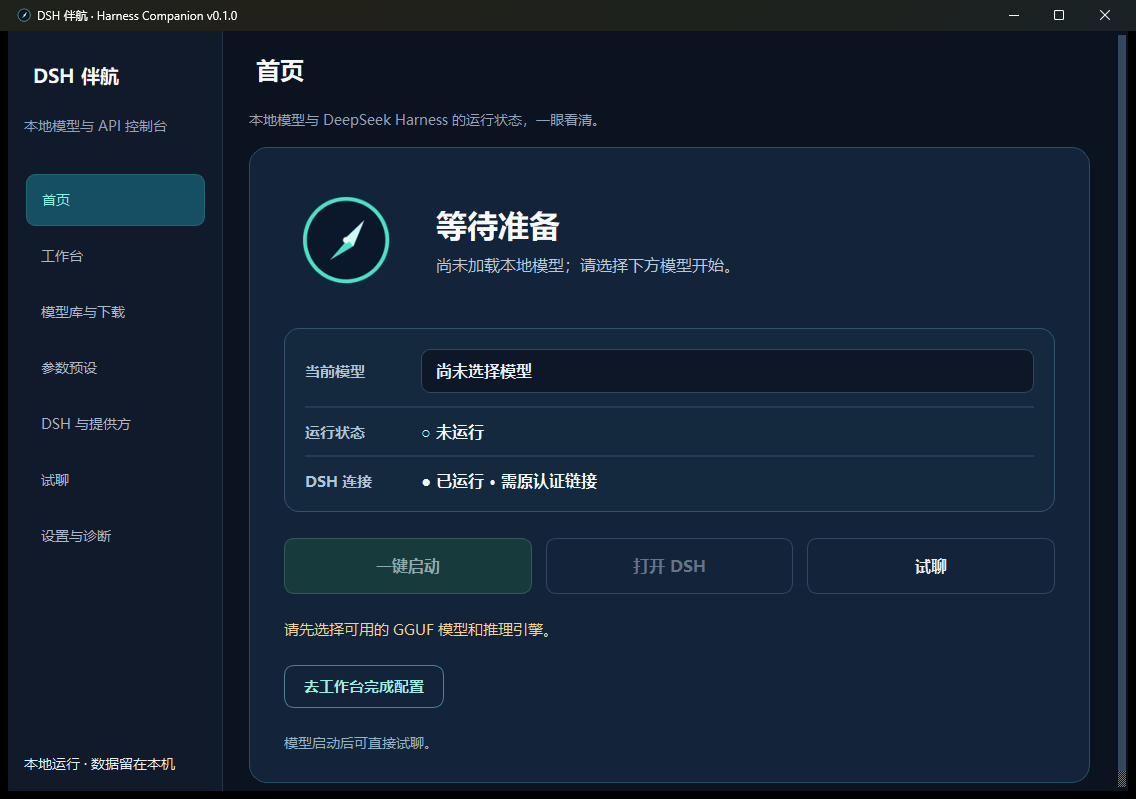
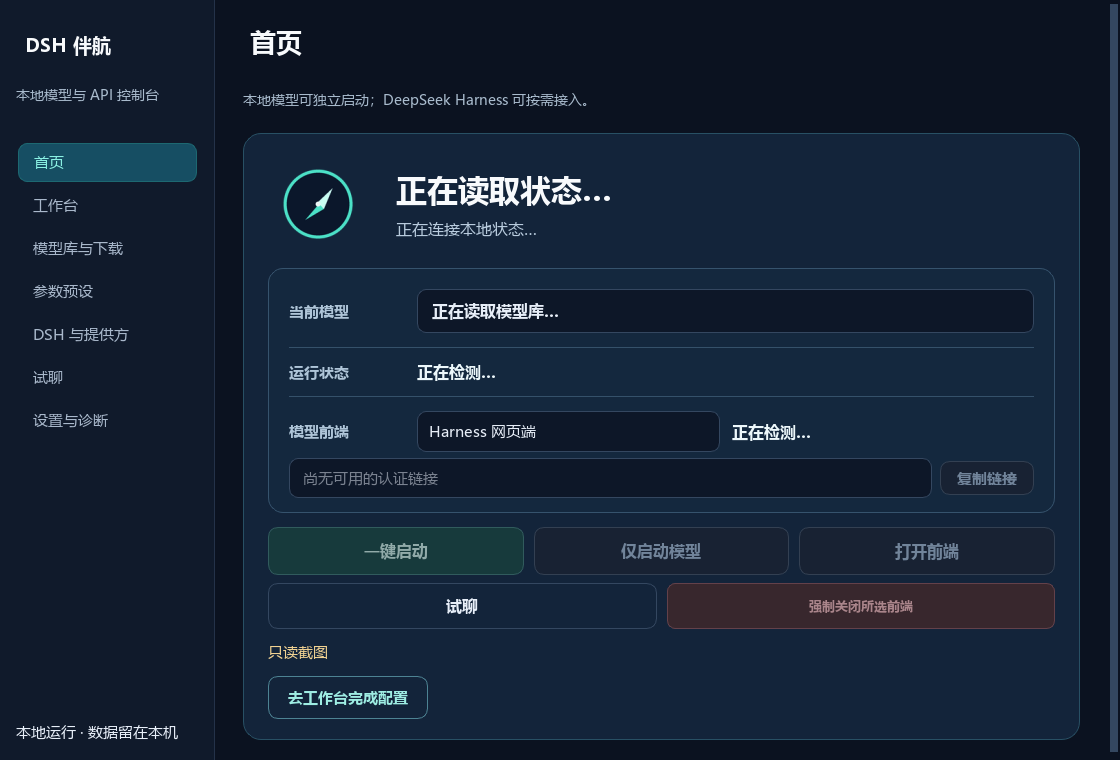
Finalize v0.2.0 source and compact preview

diff --git a/manager/main.py b/manager/main.py
@@ -1137,14 +1137,13 @@ class MainWindow(QMainWindow):
         self._title(layout, "\u9996\u9875", "\u672c\u5730\u6a21\u578b\u53ef\u72ec\u7acb\u542f\u52a8\uff1bDeepSeek Harness \u53ef\u6309\u9700\u63a5\u5165\u3002")
         hero, hero_layout = card()
         hero.setObjectName("heroCard")
-        hero.setMinimumHeight(560)
-        hero_layout.setContentsMargins(34, 30, 34, 30)
-        hero_layout.setSpacing(26)
+        hero_layout.setContentsMargins(24, 20, 24, 20)
+        hero_layout.setSpacing(14)
         hero_top = QHBoxLayout()
         hero_top.setSpacing(28)
         compass = QLabel()
-        compass.setPixmap(app_icon().pixmap(110, 110))
-        compass.setFixedSize(124, 124)
+        compass.setPixmap(app_icon().pixmap(88, 88))
+        compass.setFixedSize(100, 100)
         compass.setAlignment(Qt.AlignmentFlag.AlignCenter)
         hero_top.addWidget(compass)
         status_column = QVBoxLayout()
@@ -1167,6 +1166,7 @@ class MainWindow(QMainWindow):
         summary_layout.setContentsMargins(20, 14, 20, 14)
         summary_layout.setSpacing(0)
         model_row = QHBoxLayout()
+        model_row.setSpacing(12)
         model_row.setContentsMargins(0, 6, 0, 13)
         model_title = QLabel("当前模型")
         model_title.setObjectName("homeRowLabel")
@@ -1184,6 +1184,7 @@ class MainWindow(QMainWindow):
         divider1.setObjectName("homeDivider")
         summary_layout.addWidget(divider1)
         running_row = QHBoxLayout()
+        running_row.setSpacing(12)
         running_row.setContentsMargins(0, 13, 0, 13)
         running_title = QLabel("运行状态")
         running_title.setObjectName("homeRowLabel")
@@ -1198,6 +1199,7 @@ class MainWindow(QMainWindow):
         divider2.setObjectName("homeDivider")
         summary_layout.addWidget(divider2)
         dsh_row = QHBoxLayout()
+        dsh_row.setSpacing(12)
         dsh_row.setContentsMargins(0, 13, 0, 6)
         dsh_title = QLabel("\u6a21\u578b\u524d\u7aef")
         dsh_title.setObjectName("homeRowLabel")
@@ -1208,7 +1210,7 @@ class MainWindow(QMainWindow):
         self.frontend_combo.addItem("Harness \u684c\u9762\u7aef", "dsh_desktop")
         self.frontend_combo.addItem("Pi WebUI", "pi")
         self.frontend_combo.currentIndexChanged.connect(self._update_frontend_link)
-        dsh_row.addWidget(self.frontend_combo)
+        dsh_row.addWidget(self.frontend_combo, 1)
         self.quick_dsh_state = QLabel("\u6b63\u5728\u68c0\u6d4b\u2026")
         self.quick_dsh_state.setObjectName("homeRowValue")
         dsh_row.addWidget(self.quick_dsh_state, 1)
@@ -1216,22 +1218,38 @@ class MainWindow(QMainWindow):
         self.frontend_link_edit = QLineEdit()
         self.frontend_link_edit.setReadOnly(True)
         self.frontend_link_edit.setPlaceholderText("\u6240\u9009\u524d\u7aef\u7684\u53ef\u7528\u94fe\u63a5")
-        summary_layout.addWidget(self.frontend_link_edit)
+        frontend_link_row = QHBoxLayout()
+        frontend_link_row.setSpacing(8)
+        frontend_link_row.addWidget(self.frontend_link_edit, 1)
+        self.frontend_copy_btn = button("\u590d\u5236\u94fe\u63a5", self.copy_selected_frontend_link)
+        self.frontend_copy_btn.setFixedHeight(34)
+        frontend_link_row.addWidget(self.frontend_copy_btn)
+        summary_layout.addLayout(frontend_link_row)
         hero_layout.addWidget(summary)
 
-        actions = QHBoxLayout()
-        actions.setSpacing(14)
+        actions = QVBoxLayout()
+        actions.setSpacing(8)
+        actions_top = QHBoxLayout()
+        actions_top.setSpacing(10)
+        actions_bottom = QHBoxLayout()
+        actions_bottom.setSpacing(10)
         self.start_btn = button("\u4e00\u952e\u542f\u52a8", self.start_model_and_frontend, "primaryButton")
         self.start_btn.setToolTip("\u542f\u52a8\u6216\u590d\u7528\u6240\u9009\u672c\u5730\u6a21\u578b\uff0c\u7b49\u5f85 API \u5c31\u7eea\u540e\u6253\u5f00\u6240\u9009\u524d\u7aef\u3002")
+        self.home_model_only_start_btn = button("\u4ec5\u542f\u52a8\u6a21\u578b", self.start_model)
         self.stop_btn = button("\u505c\u6b62\u672c\u5730\u6a21\u578b", self.stop_model)
         self.dsh_open_btn = button("\u6253\u5f00\u524d\u7aef", self.open_selected_frontend)
-        self.frontend_copy_btn = button("\u590d\u5236\u94fe\u63a5", self.copy_selected_frontend_link)
         self.frontend_force_btn = button("\u5f3a\u5236\u5173\u95ed\u6240\u9009\u524d\u7aef", self.force_close_selected_frontend, "dangerButton")
         self.chat_nav_btn = button("\u8bd5\u804a", lambda: self.nav.setCurrentRow(5))
-        for widget in (self.start_btn, self.stop_btn, self.dsh_open_btn, self.frontend_copy_btn, self.frontend_force_btn, self.chat_nav_btn):
+        for widget in (self.start_btn, self.home_model_only_start_btn, self.dsh_open_btn):
             widget.setProperty("homeAction", True)
-            widget.setMinimumHeight(56)
-            actions.addWidget(widget, 1)
+            widget.setMinimumHeight(46)
+            actions_top.addWidget(widget, 1)
+        for widget in (self.stop_btn, self.chat_nav_btn, self.frontend_force_btn):
+            widget.setProperty("homeAction", True)
+            widget.setMinimumHeight(46)
+            actions_bottom.addWidget(widget, 1)
+        actions.addLayout(actions_top)
+        actions.addLayout(actions_bottom)
         hero_layout.addLayout(actions)
         self.prep_hint = QLabel("正在检查所需组件…")
         self.prep_hint.setObjectName("homeHint")
@@ -1240,22 +1258,24 @@ class MainWindow(QMainWindow):
         self.complete_setup_btn = button("去工作台完成配置", self.toggle_advanced_controls)
         self.complete_setup_btn.setObjectName("homeSetupButton")
         hero_layout.addWidget(self.complete_setup_btn, 0, Qt.AlignmentFlag.AlignLeft)
-        self.note_label = QLabel("模型启动后可直接试聊。")
-        self.note_label.setObjectName("homeNote")
-        self.note_label.setWordWrap(True)
-        hero_layout.addWidget(self.note_label)
         layout.addWidget(hero)
         apps_card, apps_layout = card("\u53ef\u9009\u5e94\u7528")
-        apps_layout.addWidget(QLabel("Pi WebUI \u6765\u81ea xing-shuyin/pi-web-ui \u793e\u533a\u9879\u76ee\uff1b\u672c\u5730 API \u9700\u5728 WebUI \u4e2d\u624b\u52a8\u914d\u7f6e\u6216\u901a\u8fc7\u4e00\u952e\u542f\u52a8\u540c\u6b65\u3002Harness Desktop \u6765\u81ea DeepSeek \u5b98\u65b9\u53d1\u5e03\u6e20\u9053\uff1b\u5176\u63d0\u4f9b\u65b9\u4e0e\u672c\u5730 API \u9700\u5728\u684c\u9762\u7aef\u5185\u624b\u52a8\u914d\u7f6e\uff0c\u4f34\u822a\u4e0d\u6539\u5199\u5176\u914d\u7f6e\u3002\u9000\u51fa\u4f34\u822a\u4e0d\u4f1a\u5173\u95ed\u4efb\u4f55\u524d\u7aef\u3002"))
+        apps_description = QLabel("Pi WebUI \u6765\u81ea xing-shuyin/pi-web-ui \u793e\u533a\u9879\u76ee\uff1b\u672c\u5730 API \u9700\u5728 WebUI \u4e2d\u624b\u52a8\u914d\u7f6e\u6216\u901a\u8fc7\u4e00\u952e\u542f\u52a8\u540c\u6b65\u3002Harness Desktop \u6765\u81ea DeepSeek \u5b98\u65b9\u53d1\u5e03\u6e20\u9053\uff1b\u5176\u63d0\u4f9b\u65b9\u4e0e\u672c\u5730 API \u9700\u5728\u684c\u9762\u7aef\u5185\u624b\u52a8\u914d\u7f6e\uff0c\u4f34\u822a\u4e0d\u6539\u5199\u5176\u914d\u7f6e\u3002\u9000\u51fa\u4f34\u822a\u4e0d\u4f1a\u5173\u95ed\u4efb\u4f55\u524d\u7aef\u3002")
+        apps_description.setWordWrap(True)
+        apps_layout.addWidget(apps_description)
         app_labels = {"pi": "Pi WebUI (community)", "dsh_desktop": "Harness Desktop (official)"}
         action_labels = {"configure": "\u914d\u7f6e\u8def\u5f84", "start": "\u542f\u52a8", "open": "\u6253\u5f00", "stop": "\u505c\u6b62\u672c\u7a97\u53e3\u542f\u52a8", "force_stop": "\u5f3a\u5236\u5173\u95ed\u5b9e\u4f8b"}
         for app_id, app_label in app_labels.items():
-            app_row = QHBoxLayout()
-            app_row.addWidget(QLabel(app_label))
+            status_row = QHBoxLayout()
+            status_row.addWidget(QLabel(app_label))
             state = QLabel("\u6b63\u5728\u68c0\u6d4b\u2026" if companion_apps is not None else "\u7ec4\u4ef6\u7ba1\u7406\u6a21\u5757\u4e0d\u53ef\u7528")
             state.setWordWrap(True)
             setattr(self, f"{app_id}_state_label", state)
-            app_row.addWidget(state, 1)
+            status_row.addWidget(state, 1)
+            apps_layout.addLayout(status_row)
+            first_actions = QHBoxLayout()
+            second_actions = QHBoxLayout()
+            second_actions.addStretch()
             for action_id, label in action_labels.items():
                 if app_id == "pi":
                     label = {"start": "\u542f\u52a8 WebUI", "open": "\u6253\u5f00 WebUI",
@@ -1271,8 +1291,9 @@ class MainWindow(QMainWindow):
                 control = button(label, handler)
                 setattr(self, f"{app_id}_{action_id}_btn", control)
                 control.setEnabled(companion_apps is not None and action_id == "configure")
-                app_row.addWidget(control)
-            apps_layout.addLayout(app_row)
+                (first_actions if action_id in ("configure", "start", "open") else second_actions).addWidget(control)
+            apps_layout.addLayout(first_actions)
+            apps_layout.addLayout(second_actions)
         connect_row = QHBoxLayout()
         connect_row.addWidget(QLabel("\u672c\u5730 API \u5730\u5740"))
         self.companion_api_address = QLineEdit()
@@ -1284,7 +1305,7 @@ class MainWindow(QMainWindow):
         self.pi_help_btn.setEnabled(False)
         connect_row.addWidget(self.pi_help_btn)
         apps_layout.addLayout(connect_row)
-        layout.addWidget(apps_card)
+        self.companion_apps_card = apps_card
         layout.addStretch()
 
         self.advanced_controls = QWidget()
@@ -1357,6 +1378,7 @@ class MainWindow(QMainWindow):
         dsh_danger_row.addWidget(self.dsh_force_btn)
         dsh_layout.addLayout(dsh_danger_row)
         advanced_layout.addWidget(dsh_card)
+        advanced_layout.insertWidget(advanced_layout.count(), self.companion_apps_card)
         advanced_layout.addStretch()
         QTimer.singleShot(0, self.refresh_start_choices)
 
@@ -1437,9 +1459,9 @@ class MainWindow(QMainWindow):
         link = self._selected_frontend_link()
         self.frontend_link_edit.setText(link)
         self.frontend_link_edit.setPlaceholderText(
-            "\\u684c\\u9762\\u7aef\\u6ca1\\u6709\\u7f51\\u9875\\u94fe\\u63a5" if app_id == "dsh_desktop" else
-            "\\u5c1a\\u65e0\\u53ef\\u7528\\u7684\\u8ba4\\u8bc1\\u94fe\\u63a5" if app_id == "dsh_web" else
-            "Pi WebUI \\u5c1a\\u672a\\u5c31\\u7eea")
+            "\u684c\u9762\u7aef\u6ca1\u6709\u7f51\u9875\u94fe\u63a5" if app_id == "dsh_desktop" else
+            "\u5c1a\u65e0\u53ef\u7528\u7684\u8ba4\u8bc1\u94fe\u63a5" if app_id == "dsh_web" else
+            "Pi WebUI \u5c1a\u672a\u5c31\u7eea")
         self.frontend_copy_btn.setEnabled(bool(link) and not self.busy and not self.quitting)
         instances = (self.dsh_status.get("instances") or []) if app_id == "dsh_web" else ((self.companion_app_status.get(app_id) or {}).get("instances") or [])
         self.frontend_force_btn.setEnabled(bool(instances) and not self.busy and not self.quitting)
@@ -1457,10 +1479,10 @@ class MainWindow(QMainWindow):
     def copy_selected_frontend_link(self, *_):
         link = self._selected_frontend_link()
         if not link:
-            self._note("\\u6240\\u9009\\u524d\\u7aef\\u5f53\\u524d\\u6ca1\\u6709\\u53ef\\u590d\\u5236\\u7684\\u7f51\\u9875\\u94fe\\u63a5\\u3002")
+            self._note("\u6240\u9009\u524d\u7aef\u5f53\u524d\u6ca1\u6709\u53ef\u590d\u5236\u7684\u7f51\u9875\u94fe\u63a5\u3002")
             return
         QApplication.clipboard().setText(link)
-        self._note("\\u524d\\u7aef\\u94fe\\u63a5\\u5df2\\u590d\\u5236\\u3002")
+        self._note("\u524d\u7aef\u94fe\u63a5\u5df2\u590d\u5236\u3002")
 
     def open_selected_frontend(self, *_):
         app_id = self._selected_frontend_id()
@@ -1468,25 +1490,25 @@ class MainWindow(QMainWindow):
             if self.dsh and self.dsh_status.get("can_open"):
                 self._action(self.dsh.open_web, lambda _result: self.refresh_dsh())
             else:
-                self._note("Harness \\u7f51\\u9875\\u7aef\\u5c1a\\u65e0\\u53ef\\u6253\\u5f00\\u7684\\u8ba4\\u8bc1\\u94fe\\u63a5\\uff1b\\u8bf7\\u5148\\u5355\\u72ec\\u542f\\u52a8\\u6216\\u8fde\\u63a5 DSH\\u3002")
+                self._note("Harness \u7f51\u9875\u7aef\u5c1a\u65e0\u53ef\u6253\u5f00\u7684\u8ba4\u8bc1\u94fe\u63a5\uff1b\u8bf7\u5148\u5355\u72ec\u542f\u52a8\u6216\u8fde\u63a5 DSH\u3002")
             return
         if not self._pi_webui_ready() and app_id == "pi":
-            self._note("Pi WebUI \\u5c1a\\u672a\\u5c31\\u7eea\\uff1b\\u672a\\u5c1d\\u8bd5\\u542f\\u52a8\\u7ec8\\u7aef\\u7248 Pi\\u3002")
+            self._note("Pi WebUI \u5c1a\u672a\u5c31\u7eea\uff1b\u672a\u5c1d\u8bd5\u542f\u52a8\u7ec8\u7aef\u7248 Pi\u3002")
             return
         self.run_companion_app_action(app_id, "open_app")
 
     def start_model_and_frontend(self, *_):
         if not self.model_session:
-            self._note(self.read_only_reason or "\\u5f53\\u524d\\u4e3a\\u53ea\\u8bfb\\u6a21\\u5f0f\\uff0c\\u8bf7\\u5148\\u63a5\\u7ba1\\u6a21\\u578b\\u63a7\\u5236\\u3002")
+            self._note(self.read_only_reason or "\u5f53\u524d\u4e3a\u53ea\u8bfb\u6a21\u5f0f\uff0c\u8bf7\u5148\u63a5\u7ba1\u6a21\u578b\u63a7\u5236\u3002")
             return
         state = self.last_status.get("state")
         if state == "RUNNING" and self.last_status.get("api_online"):
-            self._note("\\u672c\\u5730\\u6a21\\u578b API \\u5df2\\u5c31\\u7eea\\uff1b\\u6b63\\u5728\\u6253\\u5f00\\u6240\\u9009\\u524d\\u7aef\\u3002")
+            self._note("\u672c\u5730\u6a21\u578b API \u5df2\u5c31\u7eea\uff1b\u6b63\u5728\u6253\u5f00\u6240\u9009\u524d\u7aef\u3002")
             self.open_selected_frontend()
             return
         selected = self.model_combo.currentData()
         if not selected:
-            self._note("\\u8bf7\\u5148\\u9009\\u62e9\\u672c\\u5730\\u6a21\\u578b\\u3002")
+            self._note("\u8bf7\u5148\u9009\u62e9\u672c\u5730\u6a21\u578b\u3002")
             return
         self._pending_frontend_open = self._selected_frontend_id()
         self.start_model()
@@ -2060,7 +2082,8 @@ class MainWindow(QMainWindow):
             QTimer.singleShot(0, self.request_exit)
 
     def _note(self, message: str):
-        self.note_label.setText(message)
+        self.prep_hint.setText(message)
+        self.prep_hint.setVisible(True)
 
     def _action(self, job, after=None):
         if self.busy or self.quitting:
@@ -2358,7 +2381,10 @@ class MainWindow(QMainWindow):
                              and not self.busy and not working and not self.quitting)
         self.start_btn.setEnabled(can_open_frontend)
         self.start_btn.setVisible(True)
-        self.model_only_start_btn.setEnabled(ready and writable and can_start_selected and not running and not instances and not self.busy and not working and not self.quitting)
+        can_start_model_only = (ready and writable and can_start_selected and not running
+                                and not instances and not self.busy and not working and not self.quitting)
+        self.home_model_only_start_btn.setEnabled(can_start_model_only)
+        self.model_only_start_btn.setEnabled(can_start_model_only)
         self.switch_btn.setEnabled(ready and writable and can_start_selected and running and not self.busy and not working and not self.quitting)
         self.stop_btn.setEnabled(ready and writable and running and not self.busy and not working and not self.quitting)
         self.stop_btn.setVisible(running)

diff --git a/tools/stage_public_source.py b/tools/stage_public_source.py
@@ -45,7 +45,7 @@ LICENSE_TEXTS = {
     "Python-3.12.txt", "Inno-Setup-LICENSE.txt",
 }
 STATIC_FILES = {
-    ".gitignore", "AGENTS.md", "LICENSE", "README.md", "README.en.md",
+    ".gitignore", "LICENSE", "README.md", "README.en.md",
     "THIRD-PARTY-NOTICES.md", "requirements-build.txt",
     "requirements-vendor.txt", "docs/OPEN_SOURCE_RELEASE.md",
     "docs/GETTING_STARTED.zh-CN.md", "docs/GETTING_STARTED.en.md",

diff --git a/docs/OPEN_SOURCE_RELEASE.md b/docs/OPEN_SOURCE_RELEASE.md
@@ -1,4 +1,4 @@
-# Open-source build and release guide
+# Open-source build and release guide
 
 This document describes the public source of DSH 伴航 / Harness Companion. The
 application is an independent community project and is not affiliated with or
@@ -18,8 +18,8 @@ py -3.12 -m venv .venv
 .\.venv\Scripts\python.exe manager\build_exe.py
 ```
 
-The v0.1.0 build writes `release/DSH-Companion/` and
-`release/DSH-Companion-v0.1.0-windows-x64.zip`. The ZIP includes the interpreter and
+The v0.2.0 build writes `release/DSH-Companion/` and
+`release/DSH-Companion-v0.2.0-windows-x64.zip`. The ZIP includes the interpreter and
 Qt libraries but not optional llama.cpp, Node.js, DeepSeek Harness, models, or
 GPU runtimes. The fixed component-update manifest and npm integrity lock are
 instructions for opt-in downloads, not installed third-party runtimes. Run the
@@ -36,7 +36,7 @@ and run the script after the clean onedir build:
 ```
 
 This compiles `installer/DSH-Companion.iss` into
-`release/DSH-Companion-Setup-v0.1.0-windows-x64.exe`. The installer contains
+`release/DSH-Companion-Setup-v0.2.0-windows-x64.exe`. The installer contains
 the onedir application, not a Python/Qt/DSH/Node/model downloader. It has no
 post-install launch or autorun action. Review its source and test an actual
 install and uninstall before release; a successful compiler exit alone does
@@ -55,10 +55,10 @@ The source archive is produced with `tools/stage_public_source.py`, which
 copies only explicit application files, documentation, icons, license texts,
 and example resources. It rejects personal state and likely secrets. It does
 not copy the development folder wholesale. Review the generated manifest and
-`deepseek-harness-companion-v0.1.0-source.zip` before uploading them to GitHub.
+`deepseek-harness-companion-v0.2.0-source.zip` before uploading them to GitHub.
 
 ```powershell
-.\.venv\Scripts\python.exe tools\stage_public_source.py ..\public-source-review-v0.1.0
+.\.venv\Scripts\python.exe tools\stage_public_source.py ..\public-source-review-v0.2.0
 ```
 
 Choose a destination that does not already exist. The script writes a source
@@ -94,3 +94,4 @@ Virtual Keyboard binaries; the final ZIP audit checks this. Qt PDF is also
 excluded because the application does not use it and that module brings
 additional PDFium notices. Do not remove applicable third-party license
 materials when repackaging.
+

diff --git a/docs/GETTING_STARTED.en.md b/docs/GETTING_STARTED.en.md
@@ -37,7 +37,7 @@ powershell.exe -NoProfile -File .\scripts\deploy\Deploy.ps1 -Mode Uncensored32K 
 
 The launcher calls the packaged EXE, so it needs no separate Python. It rejects machines whose original hardware conditions cannot be confirmed; use the app's general preset flow on other systems. If PowerShell policy blocks the script, inspect its source first. You may use `Set-ExecutionPolicy -Scope Process RemoteSigned` in the **current window only**, or use the in-app import instead of changing global policy.
 
-> In this review, the current external llama-server build11149 using Huihui IQ3_S with froggeric v22.5 at 32K generated 128 `/` characters for "hello". Toggling thinking did not change the result. The cause remains unknown; the external process was not modified or stopped. This observation applies only to that instance.
+> An earlier running instance with this configuration generated 128 `/` characters for a Chinese request. A clean instance later answered normally with a UTF-8 request, including two seeds and thinking disabled. The earlier process was already gone, so its cause is unconfirmed. If this recurs, preserve the same instance's logs and request bytes for diagnosis. This does not establish behavior for other models or configurations.
 
 ## 3. Connect DeepSeek Harness
 

diff --git a/docs/GETTING_STARTED.zh-CN.md b/docs/GETTING_STARTED.zh-CN.md
@@ -37,7 +37,7 @@ powershell.exe -NoProfile -File .\scripts\deploy\Deploy.ps1 -Mode Uncensored32K 
 
 脚本使用已安装 EXE，不需额外 Python。它会拒绝无法确认满足原目标机条件的电脑；其他硬件可在应用里手工建通用预设。若 PowerShell 策略阻止脚本，先核对来源与内容；可以在**当前窗口**自行设置 `Set-ExecutionPolicy -Scope Process RemoteSigned`，或者直接使用应用内导入，不修改全局策略。
 
-> 本轮复核中，当前外部 llama-server build11149 使用 Huihui IQ3_S 与 froggeric v22.5 32K 配置时，对你好生成了 128 个 `/`。thinking 开关不改变结果；尚未定位原因，也未修改或停止该外部进程。此观察仅适用于该实例，不能据此判断其他模型或配置。
+> 旧运行实例曾在相同配置下对中文请求生成 128 个 `/`。之后在干净实例中，用 UTF-8 请求复测正常（包括两个 seed 与关闭 thinking）；旧进程已不在，现场根因无法证实。若再现，请在同一实例保留日志与请求字节后进一步诊断。不能据此判断其他模型或配置。
 
 ## 3. 接入 DeepSeek Harness
 

diff --git a/README.en.md b/README.en.md
@@ -1,9 +1,9 @@
-<div align="center">
+<div align="center">
   <img src="manager/assets/companion-icon-128.png" alt="DSH Companion icon" width="88" />
 
   # DSH Companion
 
-  **Start local models with one click on Windows; DSH, Pi WebUI, and Harness Desktop are optional.**
+  **A local model and multi-frontend console for DeepSeek Harness and Pi WebUI.**
 
   [简体中文](README.md) · English
 
@@ -80,3 +80,4 @@ Use **Import original prompt setup** inside the app, or choose a launcher in `sc
 | Licenses and dependencies | [MIT](LICENSE) · [Third-party notices](THIRD-PARTY-NOTICES.md) |
 
 DSH Companion is an independent community project, not affiliated with or endorsed by DeepSeek. [DeepSeek Harness upstream](https://github.com/deepseek-ai/deepseek-harness).
+

diff --git a/README.md b/README.md
@@ -1,9 +1,9 @@
-<div align="center">
+<div align="center">
   <img src="manager/assets/companion-icon-128.png" alt="DSH 伴航图标" width="88" />
 
   # DSH 伴航
 
-  **一键启动本地模型；DSH、Pi WebUI 和 Harness Desktop 都可单独使用。**
+  **本地模型与多前端控制台，连接 DeepSeek Harness 与 Pi WebUI。**
 
   简体中文 · [English](README.en.md)
 
@@ -79,3 +79,4 @@
 | 许可与第三方组件 | [MIT](LICENSE) · [第三方声明](THIRD-PARTY-NOTICES.md) |
 
 DSH 伴航是独立社区项目，与 DeepSeek 没有隶属或背书关系。[DeepSeek Harness 官方项目](https://github.com/deepseek-ai/deepseek-harness)在此。
+
